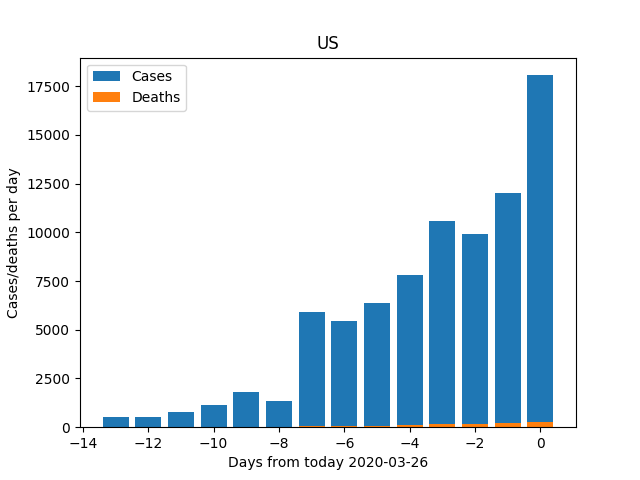
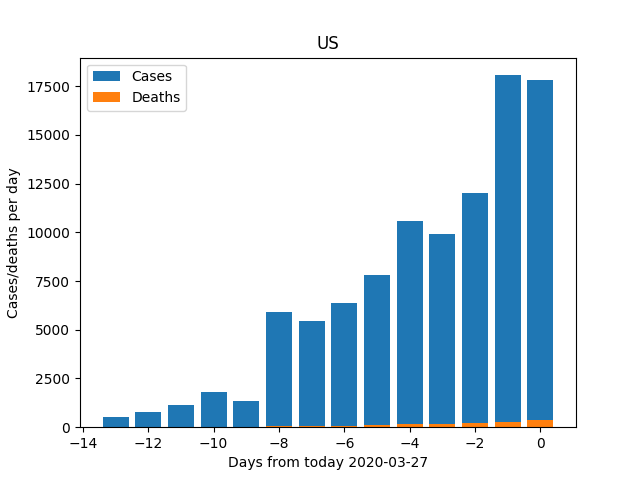
27 marzo

Changed region(s): [[0.3125, 0.1562, 0.875, 0.8438], [0.2188, 0.8438, 0.3125, 0.875], [0.6562, 0.9375, 0.6875, 0.9688]]

diff --git a/scripts/my_analysis.py b/scripts/my_analysis.py
@@ -181,28 +181,38 @@ def model_analysis(country1):
      plt.show()
 
 def new_cases(country1):
-    t1, c1, d1 = get_country(country1, day=0, number_of_past_days=45)
+    t1, c1, d1 = get_country(country1, day=0, number_of_past_days=15)
 
-    plot(t1[1:], c1[1:]-c1[0:-1], t1[1:], d1[1:]-d1[0:-1],
-         xtitle="Days from today %s" % date.today(),
-         ytitle="Cases/deaths per day",
-         title=country1,
-         legend=["New cases","New deaths"])
+    # plot(t1[1:], c1[1:]-c1[0:-1], t1[1:], d1[1:]-d1[0:-1],
+    #      xtitle="Days from today %s" % date.today(),
+    #      ytitle="Cases/deaths per day",
+    #      title=country1,
+    #      legend=["New cases","New deaths"])
+
+    plt.bar(t1[1:], c1[1:]-c1[0:-1])
+    plt.bar(t1[1:], d1[1:] - d1[0:-1], )
+    plt.title(country1)
+    plt.xlabel("Days from today %s" % date.today())
+    plt.ylabel("Cases/deaths per day")
+    plt.legend(labels=['Cases', 'Deaths'])
+    # plt.grid(True)
+    filepng = "../figures/%s_new_cases.png" % country1
+    plt.savefig(filepng)
+    print("File %s written to disk" % filepng)
+    plt.show()
 
 
 
 if __name__ == "__main__":
 
 
+    for country1 in ["Spain","Italy","France","US"]:
+        new_cases(country1)
 
+    for country1 in ["Spain","Italy","France","US"]:
+        analyze_country(country1)
 
-    # for country1 in ["Spain","Italy","France","US"]:
-    #     new_cases(country1)
-
-    # for country1 in ["Spain","Italy","France","US"]:
-    #     analyze_country(country1)
-
-    # italy_vs_spain()
+    italy_vs_spain()
 
     for country1 in ["Spain","Italy","France","US"]:
         model_analysis(country1)
